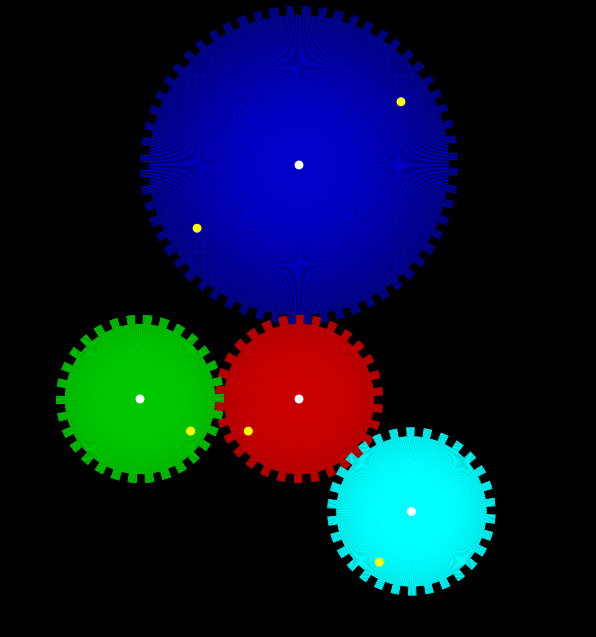
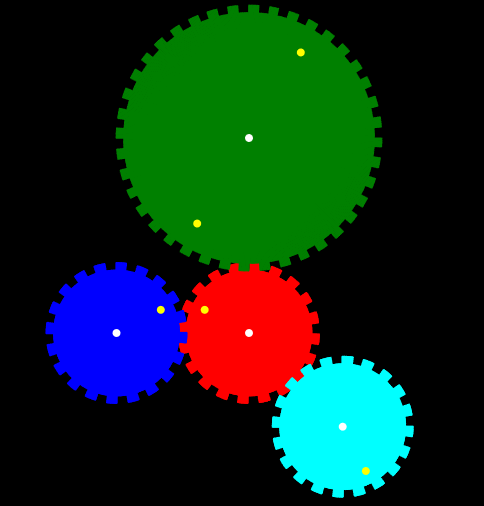
v003

diff --git a/15-Gear/sketch.js b/15-Gear/sketch.js
@@ -1,8 +1,10 @@
 const w = 500;
 const h = 700;
-const frate = 20;
-const nGear = 30;
+const frate = 10;
+const nGear = 20;
 const bGear = 1.12;
+const gSpeed = 15; // sec/1回転
+const mulGear = 2;
 let rGear;
 let rSpace;
 let radGear;
@@ -13,34 +15,41 @@ function setup() {
   rSpace = rGear + rGear * bGear;
   radGear = TWO_PI / nGear;
   frameRate(frate);
+  strokeWeight(2);
+  // noLoop();
 }
+
+// function mousePressed(){
+//   redraw();
+// }
 
 function draw() {
   background(0);
-  let radRotate = (TWO_PI / 10) * (frameCount / frate );
+  let radRotate = (TWO_PI / gSpeed) * (frameCount / frate );
 
   // Red
   push();
-  stroke(color(200, 0, 0));
   translate(w / 2, h / 2);
   rotate(radRotate);
+  stroke("red");
   drawGear(nGear, rGear);
   pop();
 
-  // Green
+  // Blue
   push();
-  stroke(color(0, 200, 0));
   translate(w / 2 - rSpace, h / 2);
   rotate(-radRotate);
+  stroke("Blue");
   drawGear(nGear, rGear);
   pop();
 
-  //Blue
+  //Green
   push();
-  stroke(color(0, 0, 200));
-  translate(w / 2, h / 2 - rGear*(2+bGear));
-  rotate(-radRotate/2 - radGear/4);
-  drawGear2(2*nGear, 2*rGear);
+  // stroke(color(0, 0, 200));
+  translate(w / 2, h / 2 - rGear*(bGear+mulGear));
+  rotate(-radRotate/2);
+  stroke("Green");
+  drawGear2(mulGear);
   pop();
 
   //Sky Blue
@@ -54,7 +63,7 @@ function draw() {
 
 function drawGear(n, r) {
   for (i = 0; i < TWO_PI; i += 0.01) {
-    var y1 = 0;
+    let y1 = 0;
     if (sin(i * n) >= 0) {
       y1 = r;
     } else {
@@ -69,13 +78,15 @@ function drawGear(n, r) {
   ellipse(0, r*4/5, 10);
 }
 
-function drawGear2(n, r) {
+function drawGear2(mul) {
+  const n = mul * nGear;
+  const r = mul * rGear;
+
   for (i = 0; i < TWO_PI; i += 0.01) {
-    var y1 = 0;
+    let y1 = 0;
     if (sin(i * n) >= 0) {
       y1 = r;
     } else {
-      // y1 = r * bGear;
       y1 = r + rGear*(bGear-1);
     }
     line(y1 * cos(i), y1 * sin(i), 0, 0);
@@ -84,8 +95,6 @@ function drawGear2(n, r) {
   fill("white");
   ellipse(0, 0, 10);
   fill("yellow");
-  // ellipse(0, r*4/5, 10);
-  // ellipse(0, -r*4/5, 10);
   ellipse(-r*4/5,0, 10);
   ellipse(r*4/5,0, 10);
   
